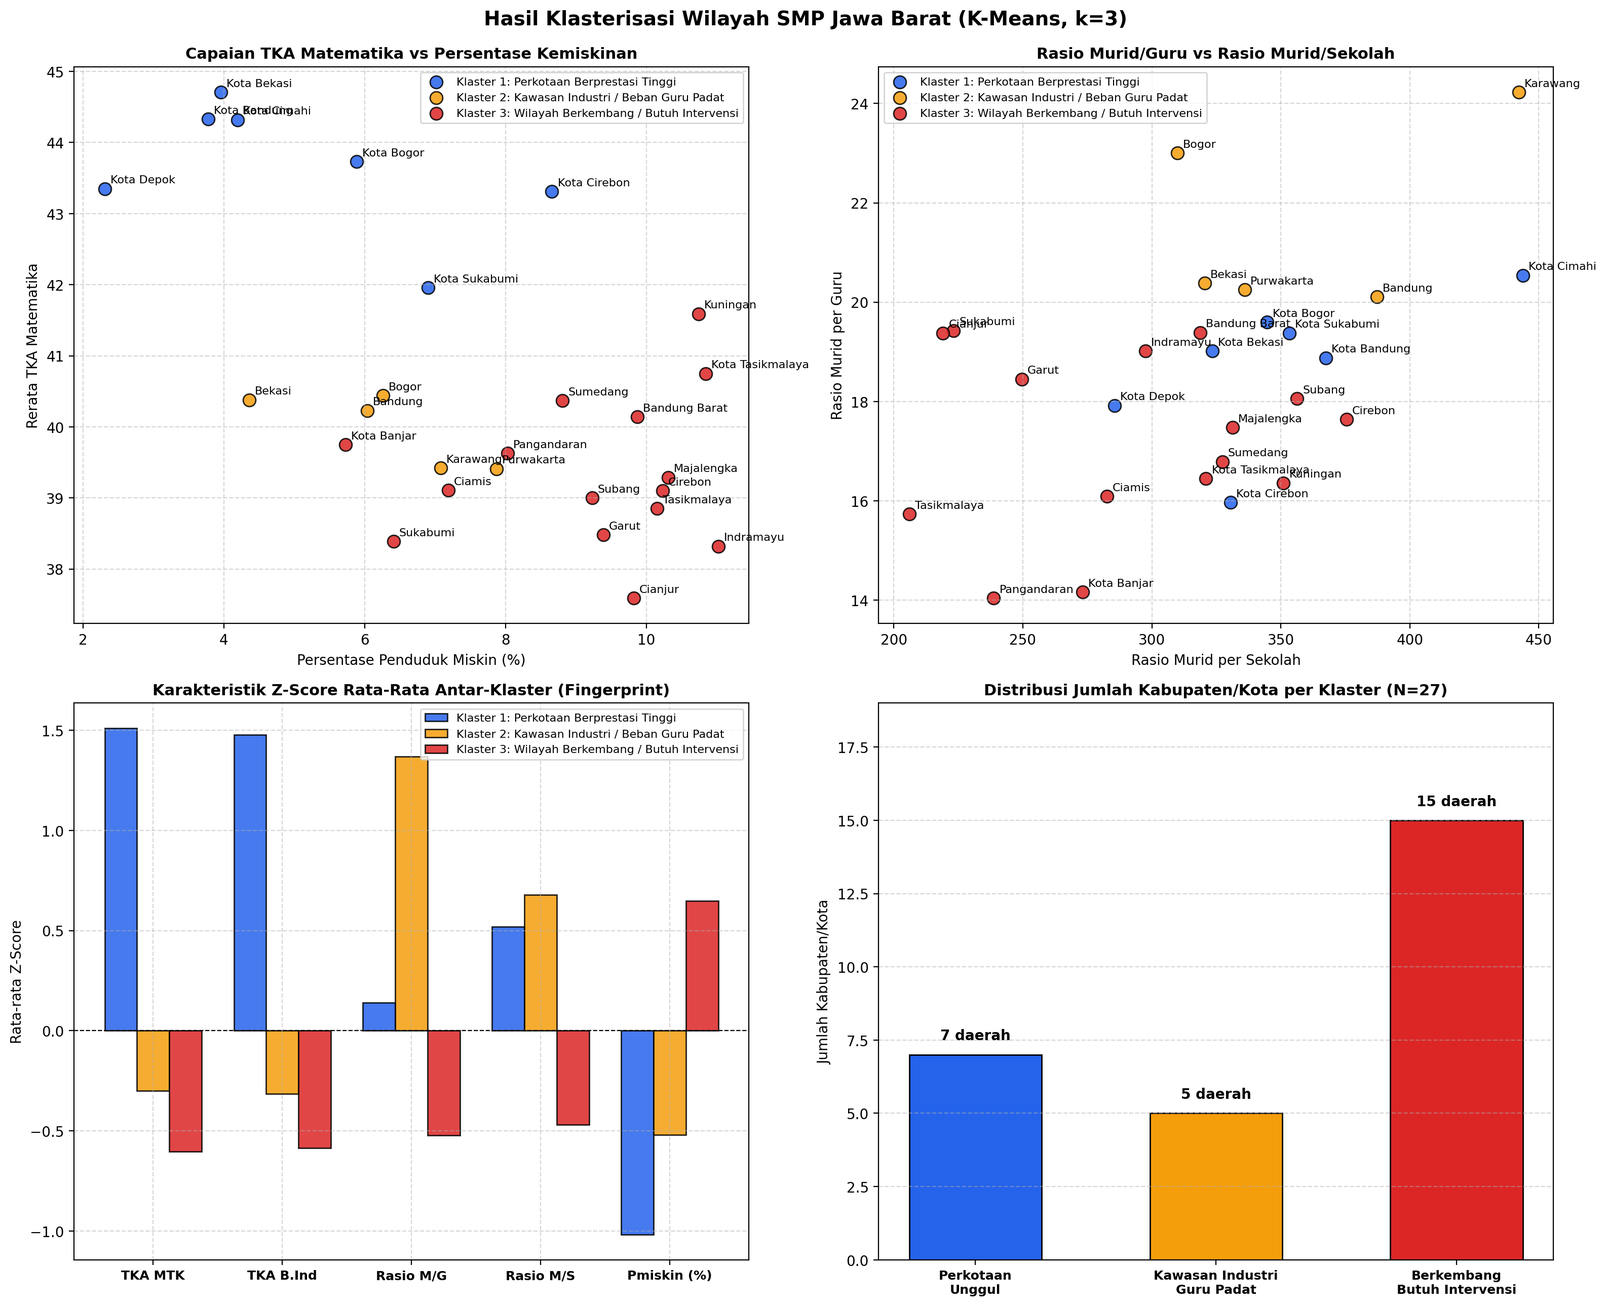
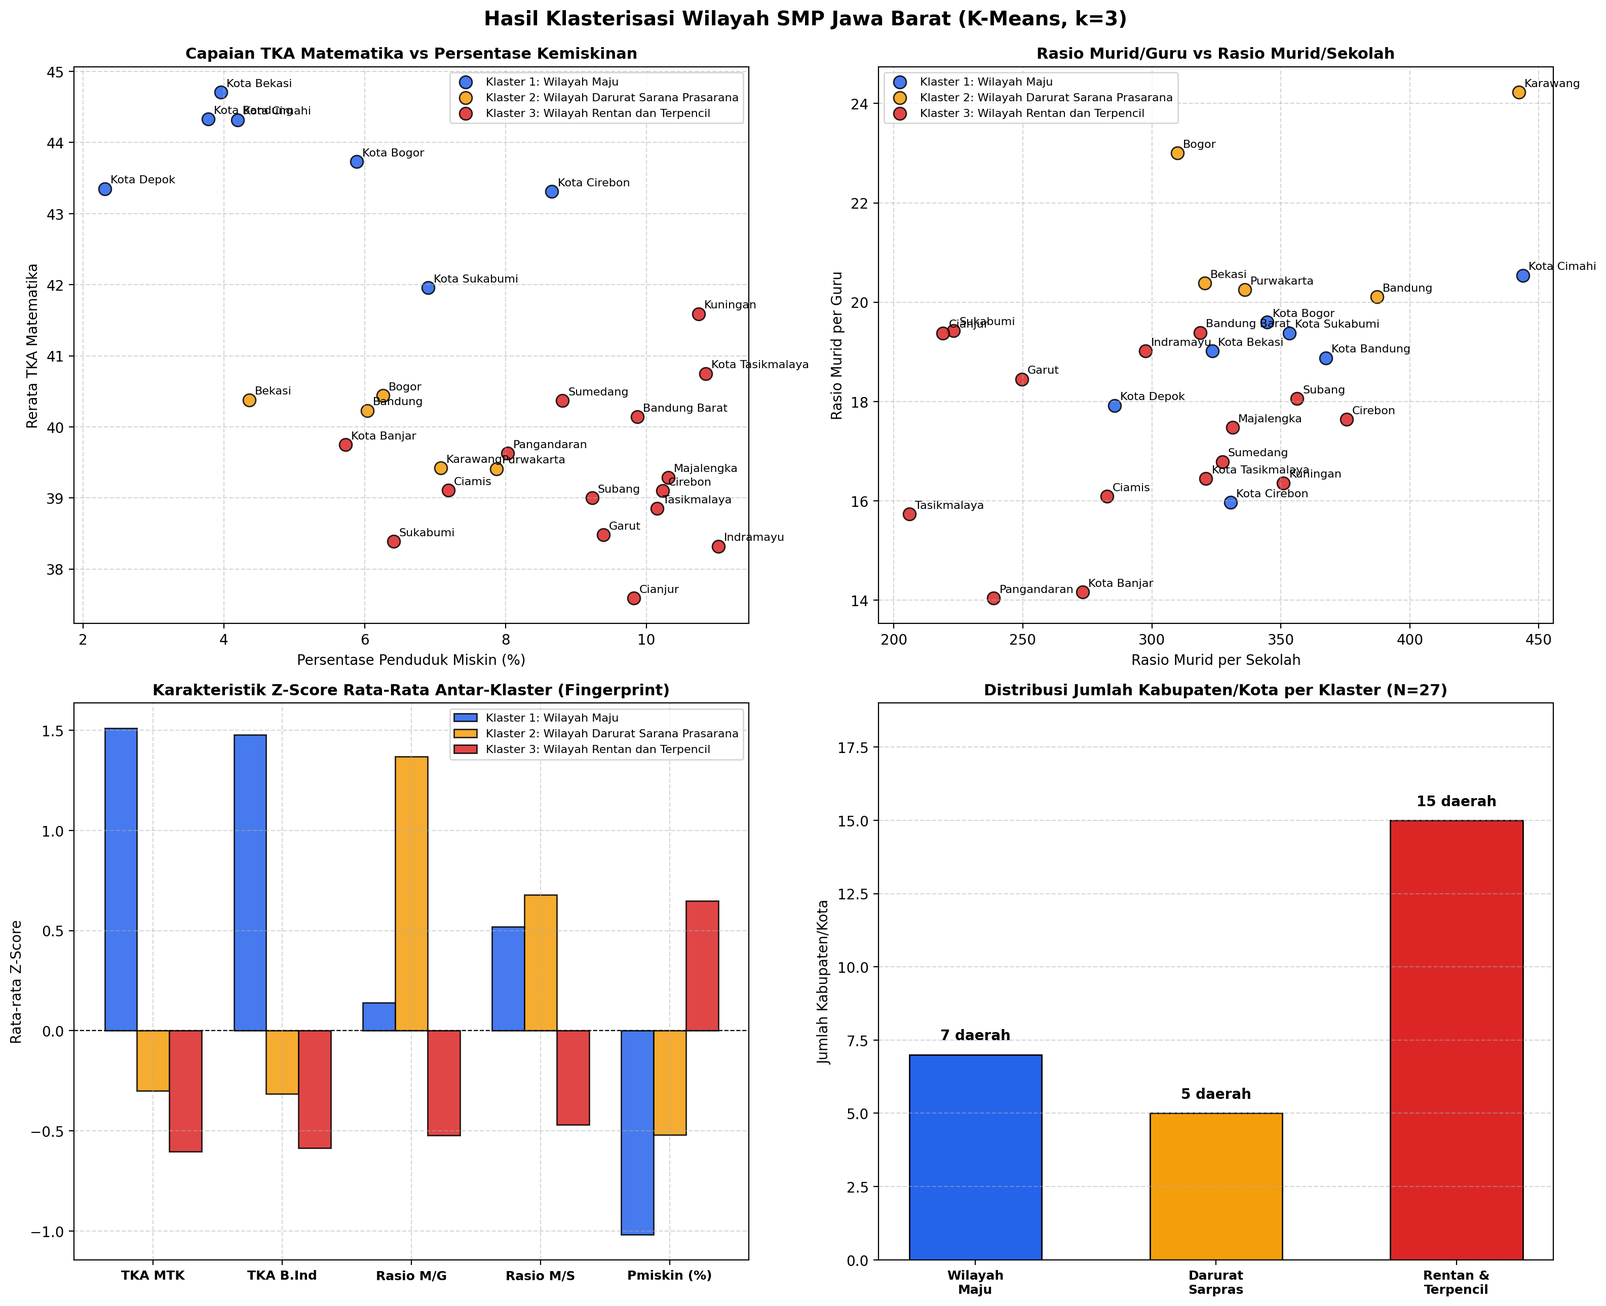
feat: add SMP region clustering project using K-Means and dataset files

diff --git a/clustering/kmeans_clustering.py b/clustering/kmeans_clustering.py
@@ -47,11 +47,11 @@ mean_stats = temp_df.groupby("temp_cluster")[fitur].mean()
 label_mapping = {}
 for c_id, row in mean_stats.iterrows():
     if row["tka_rerata_mtk"] > 42.0:
-        label_mapping[c_id] = "Klaster 1: Perkotaan Berprestasi Tinggi"
+        label_mapping[c_id] = "Klaster 1: Wilayah Maju"
     elif row["rasio_murid_guru"] > 20.0:
-        label_mapping[c_id] = "Klaster 2: Kawasan Industri / Beban Guru Padat"
+        label_mapping[c_id] = "Klaster 2: Wilayah Darurat Sarana Prasarana"
     else:
-        label_mapping[c_id] = "Klaster 3: Wilayah Berkembang / Butuh Intervensi"
+        label_mapping[c_id] = "Klaster 3: Wilayah Rentan dan Terpencil"
 
 # 5. Gabungkan Hasil Klasterisasi ke Dataset Final
 hasil_df = df_raw.copy()
@@ -85,9 +85,9 @@ for nama_klaster, grup in hasil_df.groupby("nama_klaster_k3"):
 fig, axes = plt.subplots(2, 2, figsize=(16, 13))
 
 warna_klaster = {
-    "Klaster 1: Perkotaan Berprestasi Tinggi": "#2563eb",         # Biru
-    "Klaster 2: Kawasan Industri / Beban Guru Padat": "#f59e0b",   # Amber / Oranye
-    "Klaster 3: Wilayah Berkembang / Butuh Intervensi": "#dc2626"  # Merah
+    "Klaster 1: Wilayah Maju": "#2563eb",                      # Biru (Maju/Stabil)
+    "Klaster 2: Wilayah Darurat Sarana Prasarana": "#f59e0b",   # Amber / Oranye (Peringatan Sarpras)
+    "Klaster 3: Wilayah Rentan dan Terpencil": "#dc2626"       # Merah (Prioritas Afirmasi)
 }
 
 # Subplot 1: TKA MTK vs Persentase Kemiskinan
@@ -148,7 +148,7 @@ bar_colors = [warna_klaster.get(name, "gray") for name in klaster_names]
 
 bars = ax4.bar(range(len(klaster_names)), klaster_counts, color=bar_colors, width=0.55, edgecolor="black")
 ax4.set_xticks(range(len(klaster_names)))
-short_labels = ["Perkotaan\nUnggul", "Kawasan Industri\nGuru Padat", "Berkembang\nButuh Intervensi"]
+short_labels = ["Wilayah\nMaju", "Darurat\nSarpras", "Rentan &\nTerpencil"]
 ax4.set_xticklabels(short_labels, fontsize=9, fontweight="bold")
 ax4.set_title("Distribusi Jumlah Kabupaten/Kota per Klaster (N=27)", fontsize=11, fontweight="bold")
 ax4.set_ylabel("Jumlah Kabupaten/Kota")

diff --git a/README.md b/README.md
@@ -1,0 +1,304 @@
+# Klasterisasi Wilayah Pendidikan SMP Jawa Barat Menggunakan K-Means Clustering
+> **Analisis Disparitas Mutu Capaian TKA, Kebutuhan Sarana Prasarana, dan Konteks Sosio-Ekonomi di 27 Kabupaten/Kota Jawa Barat**
+
+---
+
+## Daftar Isi
+1. [Latar Belakang & Tujuan](#1-latar-belakang--tujuan)
+2. [Alur Kerja Data Mining (Pipeline)](#2-alur-kerja-data-mining-pipeline)
+3. [Tahap 1: Pengumpulan & Sumber Data](#tahap-1-pengumpulan--sumber-data)
+4. [Tahap 2: Integrasi & Pembersihan Data](#tahap-2-integrasi--pembersihan-data)
+5. [Tahap 3: Analisis Eksploratif (EDA) & Multikolinearitas](#tahap-3-analisis-eksploratif-eda--multikolinearitas)
+6. [Tahap 4: Seleksi Fitur & Standardisasi Data](#tahap-4-seleksi-fitur--standardisasi-data)
+7. [Tahap 5: Evaluasi Penentuan Jumlah Klaster Optimal (k)](#tahap-5-evaluasi-penentuan-jumlah-klaster-optimal-k)
+8. [Tahap 6: Eksekusi K-Means Clustering & Profiling Wilayah](#tahap-6-eksekusi-k-means-clustering--profiling-wilayah)
+9. [Rekomendasi Kebijakan Berbasis Data (Policy Action)](#9-rekomendasi-kebijakan-berbasis-data-policy-action)
+10. [Struktur Direktori Proyek](#10-struktur-direktori-proyek)
+11. [Panduan Menjalankan Skrip](#11-panduan-menjalankan-skrip)
+
+---
+
+## 1. Latar Belakang & Tujuan
+
+Pemerataan kualitas pendidikan jenjang Sekolah Menengah Pertama (SMP) di Provinsi Jawa Barat menghadapi tantangan multidimensi. Disparitas mutu hasil belajar siswa tidak hanya dipengaruhi oleh faktor internal proses belajar mengajar, melainkan berkaitan erat dengan:
+1. **Daya tampung sarana fisik dan kecukupan tenaga pendidik**.
+2. **Kondisi kesejahteraan sosio-ekonomi keluarga siswa di wilayah tersebut**.
+
+Proyek data mining ini bertujuan untuk:
+* Mengidentifikasi pola disparitas pendidikan di 27 kabupaten/kota Jawa Barat secara objektif dan matematis.
+* Mengelompokkan wilayah ke dalam klaster profil yang jelas dan interpretatif (*Wilayah Maju*, *Wilayah Darurat Sarana Prasarana*, dan *Wilayah Rentan dan Terpencil*).
+* Memberikan landasan rekomendasi kebijakan (*evidence-based policy*) yang tepat sasaran bagi pemerintah daerah dan pemangku kepentingan pendidikan.
+
+---
+
+## 2. Alur Kerja Data Mining (Pipeline)
+
+Proses data mining dilakukan mengacu pada metodologi baku CRISP-DM (*Cross-Industry Standard Process for Data Mining*):
+
+```mermaid
+flowchart TD
+    A["1. Data Collection\n(TKA Pusmendik, Dapodik Kemendikbud, BPS Jabar)"] --> B["2. Data Integration & Cleaning\n(Penyelarasan Kode Wilayah & Validasi 27 Kab/Kota Jenjang SMP)"]
+    B --> C["3. Exploratory Data Analysis & Feature Selection\n(Pearson Correlation & Eliminasi Count-Bias)"]
+    C --> D["4. Data Normalization / Standardization\n(Z-Score Transformation / StandardScaler)"]
+    D --> E["5. Cluster Validation & Optimal k Evaluation\n(Elbow WCSS, Silhouette Score, Davies-Bouldin Index)"]
+    E --> F["6. K-Means Modeling & Cluster Profiling\n(Penetapan k=3 & Pemberian Label Wilayah)"]
+    F --> G["7. Policy Recommendations & Spatial Insights\n(Intervensi Afirmatif & Alokasi Anggaran Berbasis Klaster)"]
+```
+
+---
+
+## Tahap 1: Pengumpulan & Sumber Data
+
+Dataset dikumpulkan dari tiga domain data primer:
+1. **Domain Capaian Akademik**:
+   * Data nilai rerata Tes Kemampuan Akademik (TKA) jenjang SMP bidang Matematika (`tka_rerata_mtk`) dan Bahasa Indonesia (`tka_rerata_bind`) yang diperoleh dari hasil *web scraping* resmi.
+2. **Domain Infrastruktur & SDM Pendidikan (Dapodik Kemendikbud)**:
+   * Jumlah sekolah SMP (negeri dan swasta).
+   * Jumlah guru dan tenaga kependidikan (TKP).
+   * Jumlah murid terdaftar.
+3. **Domain Sosio-Ekonomi Daerah (BPS Jawa Barat)**:
+   * Persentase penduduk miskin per kabupaten/kota (`pct_penduduk_miskin`).
+   * Garis kemiskinan (Rp/kapita/bulan).
+4. **Domain Spasial**:
+   * Peta batas administrasi 27 kabupaten/kota Provinsi Jawa Barat dalam format GeoJSON.
+
+---
+
+## Tahap 2: Integrasi & Pembersihan Data
+
+* **Penyelarasan Entitas**: Penggabungan multi-sumber data dilakukan menggunakan pencocokan ganda: `kode_wilayah` (Kemendagri), `kode_bps`, dan nama kabupaten/kota resmi Jawa Barat.
+* **Filter Jenjang**: Difokuskan spesifik pada jenjang SMP di seluruh 27 kabupaten/kota (18 kabupaten dan 9 kota).
+* **Validasi Kualitas Data**: Dilakukan pengecekan *missing value* ($0$ nilai kosong ditemukan) dan penyeragaman tipe data ke format floating-point numerik.
+* **Output Tahap Ini**: Disimpan dalam file [`dataset/jabar_smp_merged.csv`](file:///dataset/jabar_smp_merged.csv) dan [`dataset/dataset_final_smp.csv`](file:///dataset/dataset_final_smp.csv).
+
+---
+
+## Tahap 3: Analisis Eksploratif (EDA) & Multikolinearitas
+
+Analisis korelasi dijalankan melalui skrip [`clustering/statistik_grafik/korelasi.py`](file:///clustering/statistik_grafik/korelasi.py) menggunakan koefisien korelasi Pearson:
+
+$$r_{xy} = \frac{\sum_{i=1}^{n} (x_i - \bar{x})(y_i - \bar{y})}{\sqrt{\sum_{i=1}^{n} (x_i - \bar{x})^2} \sqrt{\sum_{i=1}^{n} (y_i - \bar{y})^2}}$$
+
+### Alasan Pengambilan Keputusan (Eliminasi *Count-Bias*):
+1. **Masalah Variabel Agregat Mentah**:
+   * Ditemukan multikolinearitas ekstrem pada variabel jumlah absolut:
+     * `guru_total` vs `murid_total` ($r = 0.987$)
+     * `sekolah_total` vs `guru_total` ($r = 0.955$)
+     * `sekolah_total` vs `murid_total` ($r = 0.950$)
+   * *Alasan Keputusan*: Jumlah absolut sangat bias terhadap luas geografis dan jumlah penduduk kabupaten (misal Kabupaten Bogor berpenduduk 5+ juta jiwa vs Kota Cirebon berpenduduk 300 ribu jiwa). Jika dimasukkan ke klasterisasi, algoritma hanya akan mengelompokkan wilayah berdasarkan ukuran daerah (*size-bias*), bukan mutu pendidikannya.
+2. **Solusi Perhitungan Rasio**:
+   * Dihitung variabel intensif:
+     * **Rasio Murid per Guru**: $\text{Rasio M/G} = \frac{\text{murid\_total}}{\text{guru\_total}}$ (mengukur beban pengajaran guru).
+     * **Rasio Murid per Sekolah**: $\text{Rasio M/S} = \frac{\text{murid\_total}}{\text{sekolah\_total}}$ (mengukur skala dan kepadatan gedung sekolah).
+3. **Temuan Korelasi Akademik & Kemiskinan**:
+   * Korelasi `tka_rerata_bind` dan `tka_rerata_mtk` sebesar **$0.978$** (hampir sempurna).
+   * Korelasi antara skor TKA dengan `pct_penduduk_miskin` bernilai negatif kuat ($r = -0.62$ s/d $-0.65$), membuktikan bahwa kondisi ekonomi daerah berpengaruh signifikan terhadap capaian akademik siswa.
+
+---
+
+## Tahap 4: Seleksi Fitur & Standardisasi Data
+
+Dijalankan melalui skrip [`clustering/standarisasi.py`](file:///clustering/standarisasi.py).
+
+### 1. Lima Fitur Terpilih
+Dipilih 5 fitur yang mewakili 3 pilar penentu:
+* **Pilar Mutu Akademik**: `tka_rerata_mtk` dan `tka_rerata_bind`.
+* **Pilar Kapasitas SDM & Sarpras**: `rasio_murid_guru` dan `rasio_murid_sekolah`.
+* **Pilar Konteks Sosio-Ekonomi**: `pct_penduduk_miskin`.
+
+### 2. Rumus Standardisasi (Z-Score Normalization)
+Algoritma K-Means mengukur kemiripan antar-daerah menggunakan **jarak Euclidean**:
+
+$$d(p, q) = \sqrt{\sum_{j=1}^{d} (p_j - q_j)^2}$$
+
+Karena satuan masing-masing fitur sangat berbeda (rasio murid per sekolah bernilai $200 - 450$, sedangkan kemiskinan bernilai $2\% - 11\%$, dan nilai TKA berkisar $37 - 72$), fitur dengan angka ratusan akan mendominasi perhitungan jarak. Oleh karena itu, seluruh fitur ditransformasikan ke skala Z-Score:
+
+$$z = \frac{x - \mu}{\sigma}$$
+
+Di mana:
+* $\mu = \frac{1}{N}\sum_{i=1}^{N} x_i$ (Rata-rata fitur)
+* $\sigma = \sqrt{\frac{1}{N}\sum_{i=1}^{N} (x_i - \mu)^2}$ (Standar deviasi fitur)
+
+Setelah transformasi: $\mu = 0$ dan $\sigma = 1$ untuk seluruh fitur.
+* **Output**: Disimpan di [`dataset/fitur_kmeans_smp_standardisasi.csv`](file:///dataset/fitur_kmeans_smp_standardisasi.csv).
+
+---
+
+## Tahap 5: Evaluasi Penentuan Jumlah Klaster Optimal ($k$)
+
+Dijalankan melalui skrip [`clustering/evaluasi_k.py`](file:///clustering/evaluasi_k.py). Pengujian dilakukan untuk rentang $k = 2$ hingga $k = 8$.
+
+### Tiga Metrik Pengujian:
+
+#### 1. Elbow Method (Within-Cluster Sum of Squares / WCSS)
+Mengukur total variansi kuadrat jarak titik data ke pusat klasternya:
+
+$$\text{WCSS} = \sum_{k=1}^{K} \sum_{x \in C_k} ||x - \mu_k||^2$$
+
+#### 2. Silhouette Coefficient
+Mengukur seberapa dekat suatu titik dengan klasternya sendiri dibandingkan dengan klaster terdekat lainnya:
+
+$$s(i) = \frac{b(i) - a(i)}{\max(a(i), b(i))}$$
+
+Di mana $a(i)$ adalah rata-rata jarak ke sesama anggota klaster, dan $b(i)$ adalah rata-rata jarak ke anggota klaster terdekat berikutnya. Nilai berkisar antara $-1 \le s(i) \le 1$ (makin mendekati 1 makin optimal).
+
+#### 3. Davies-Bouldin Index (DBI)
+Mengukur rasio penyebaran internal klaster terhadap pemisahan antarklaster:
+
+$$DB = \frac{1}{k}\sum_{i=1}^{k} \max_{j \neq i} \left( \frac{\bar{d}_i + \bar{d}_j}{d(c_i, c_j)} \right)$$
+
+Nilai semakin kecil mendekati $0$ menunjukkan klaster yang semakin terpisah dengan baik (*well-separated*).
+
+### Tabel Hasil Evaluasi Metrik:
+| $k$ (Jumlah Klaster) | WCSS / Inertia *(Elbow)* | Silhouette Score | Davies-Bouldin Index | Calinski-Harabasz |
+| :---: | :---: | :---: | :---: | :---: |
+| **2** | 78.35 | 0.3481 | 1.1191 | 18.08 |
+| **3** | **56.26** *(Siku Penurunan)* | **0.3270** | **0.9905** *(Drop < 1.0)* | 16.80 |
+| **4** | 42.15 | 0.3155 | 1.0266 | 16.89 |
+| **5** | 34.16 | 0.3426 | 0.8911 | 16.24 |
+| **6** | 28.37 | 0.3305 | 0.8196 | 15.79 |
+
+### Alasan Keputusan Memilih $k = 3$:
+1. **Titik Siku Pertama (*Elbow Point*)**: Penurunan WCSS paling signifikan terjadi pada perpindahan dari $k=2$ ke $k=3$ (berkurang $28.2\%$).
+2. **Pemisahan Klaster Solid**: Davies-Bouldin Index turun tajam dari $1.119$ ke **$0.9905$** (di bawah 1.0 menandakan batas antarklaster yang tegas).
+3. **Paritas & Interpretasi Kebijakan**: Untuk 27 kabupaten/kota, pembagian menjadi 3 kelompok menghasilkan interpretasi kebijakan yang paling aplikatif dan seimbang tanpa risiko *over-fragmentation*.
+* **Output Grafik & Data**: [`clustering/statistik_grafik/grafik_eda/evaluasi_optimal_k.png`](file:///clustering/statistik_grafik/grafik_eda/evaluasi_optimal_k.png) dan [`evaluasi_optimal_k.csv`](file:///clustering/statistik_grafik/evaluasi_optimal_k.csv).
+
+---
+
+## Tahap 6: Eksekusi K-Means Clustering & Profiling Wilayah
+
+Dijalankan melalui skrip [`clustering/kmeans_clustering.py`](file:///clustering/kmeans_clustering.py).
+
+### Algoritma K-Means:
+1. Menentukan $k=3$ centroid awal secara acak terdistribusi (`k-means++`, `random_state=42`).
+2. Menghitung jarak Euclidean setiap kabupaten/kota ke masing-masing centroid.
+3. Menetapkan setiap wilayah ke klaster dengan jarak centroid terdekat:
+   $$C(i) = \arg\min_{j} ||x_i - \mu_j||^2$$
+4. Menghitung ulang posisi centroid sebagai rata-rata koordinat anggota barunya:
+   $$\mu_j = \frac{1}{|C_j|} \sum_{i \in C_j} x_i$$
+5. Mengulang iterasi hingga konvergensi tercapai (posisi centroid tidak lagi bergeser).
+
+---
+
+### Profil Karakteristik 3 Klaster Terbentuk
+
+Berikut adalah tabel rata-rata nilai riil (asli) tiap klaster yang disimpan pada [`clustering/statistik_grafik/profil_klaster_smp.csv`](file:///clustering/statistik_grafik/profil_klaster_smp.csv):
+
+| Fitur / Indikator | Klaster 1: Wilayah Maju | Klaster 2: Wilayah Darurat Sarpras | Klaster 3: Wilayah Rentan & Terpencil | Rerata Jabar |
+| :--- | :---: | :---: | :---: | :---: |
+| **Jumlah Wilayah** | **7 daerah** | **5 daerah** | **15 daerah** | 27 daerah |
+| **Rerata TKA Matematika** | **43.67** *(Tertinggi)* | **39.98** *(Menengah)* | **39.36** *(Terendah)* | 40.59 |
+| **Rerata TKA B. Indonesia**| **69.49** *(Tertinggi)* | **61.85** *(Menengah)* | **60.71** *(Terendah)* | 63.19 |
+| **Rasio Murid per Guru** | **18.76** *(Proporsional)* | **21.59** *(Paling Padat)* | **17.23** *(Relatif Longgar)* | 18.43 |
+| **Rasio Murid per Sekolah**| **349.79** | **359.19** *(Terbesar/Sesak)* | **291.37** *(Sekolah Kecil)* | 319.06 |
+| **% Penduduk Miskin** | **5.10%** *(Terendah)* | **6.32%** *(Moderat)* | **9.18%** *(Tertinggi)* | 7.59% |
+
+---
+
+### Penjelasan & Anggota Masing-Masing Klaster
+
+#### 1. Klaster 1: Wilayah Maju (7 Daerah)
+* **Anggota**: *Kota Bandung, Kota Cimahi, Kota Bekasi, Kota Bogor, Kota Depok, Kota Sukabumi, Kota Cirebon*.
+* **Karakteristik**:
+  * Didominasi oleh pusat-pusat kota metropolitan.
+  * Capaian prestasi TKA Matematika dan Bahasa Indonesia tertinggi di Jawa Barat.
+  * Daya dukung ekonomi sangat kuat dengan persentase penduduk miskin paling rendah di Jawa Barat (Depok hanya 2.31%, Bandung 3.78%, Bekasi 3.96%).
+  * Rasio murid-guru dan infrastruktur sekolah berada pada standar pelayanan minimal yang sangat mapan.
+
+#### 2. Klaster 2: Wilayah Darurat Sarana Prasarana (5 Daerah)
+* **Anggota**: *Kabupaten Bogor, Kabupaten Bandung, Kabupaten Purwakarta, Kabupaten Karawang, Kabupaten Bekasi*.
+* **Karakteristik**:
+  * Wilayah dengan jumlah populasi siswa sangat besar (koridor penyangga industri).
+  * **Krisis Guru Terberat**: Memiliki rasio murid per guru tertinggi di Jawa Barat (**21.59**, Karawang bahkan mencapai **24.23** dan Bogor **23.00**; jauh melampaui batas SPM ideal Kemendikbud 1:15 s/d 1:18).
+  * **Sekolah Mengalami Overcapacity**: Rasio murid per sekolah mencapai rata-rata **359.19 murid per sekolah** (Karawang mencapai **442.23**). Ruang kelas sangat padat dan ketersediaan sekolah tidak mampu mengimbangi membludaknya jumlah usia sekolah.
+
+#### 3. Klaster 3: Wilayah Rentan dan Terpencil (15 Daerah)
+* **Anggota**: *Kabupaten Sukabumi, Cianjur, Garut, Tasikmalaya, Ciamis, Kuningan, Cirebon, Majalengka, Sumedang, Indramayu, Subang, Bandung Barat, Pangandaran, Kota Tasikmalaya, Kota Banjar*.
+* **Karakteristik**:
+  * **Tantangan Kemiskinan**: Memiliki tingkat kemiskinan tertinggi di Jawa Barat (rata-rata **9.18%**, di mana Indramayu mencapai **11.02%**, Kuningan **10.74%**, dan Tasikmalaya **10.15%**).
+  * **Tantangan Dispersi Geografis / Sekolah Terpencil**: Rasio murid per sekolah kecil (rata-rata hanya 291 murid, bahkan di Tasikmalaya 205, Cianjur 219, Sukabumi 223, Pangandaran 238). Ini menandakan banyaknya sekolah-sekolah kecil yang tersebar di wilayah geografis pegunungan dan pesisir (wilayah Jabar Selatan dan pedalaman) dengan tantangan aksesibilitas.
+  * **Kesenjangan Capaian**: Rerata nilai TKA terendah di Jawa Barat.
+
+---
+
+## 9. Rekomendasi Kebijakan Berbasis Data (Policy Action)
+
+Hasil klasterisasi memberikan panduan intervensi yang berbeda untuk masing-masing kelompok wilayah:
+
+```
++----------------------------------------------------------------------------------------------------+
+|                                REKOMENDASI KEBIJAKAN PENDIDIKAN JABAR                              |
++----------------------------------------------------------------------------------------------------+
+|                                                                                                    |
+|  [ KLASTER 1: WILAYAH MAJU ]                                                                       |
+|  - Peran sebagai "Sister School" & Pusat Inkubasi Inovasi Belajar bagi daerah lain.                |
+|  - Penguatan kurikulum olimpiade sains/teknologi dan digital learning tingkat lanjut.              |
+|                                                                                                    |
+|  [ KLASTER 2: WILAYAH DARURAT SARANA PRASARANA ]                                                   |
+|  - Formasi Prioritas Pengangkatan Guru Baru (PPPK/PNS) untuk menurunkan rasio murid/guru ke <18.   |
+|  - Pembangunan Ruang Kelas Baru (RKB) dan Unit Sekolah Baru (USB) untuk mengurai kepadatan sekolah.|
+|  - Kemitraan CSR kawasan industri lokal untuk renovasi dan pembangunan fasilitas sekolah.          |
+|                                                                                                    |
+|  [ KLASTER 3: WILAYAH RENTAN DAN TERPENCIL ]                                                       |
+|  - Bantuan Operasional Sekolah (BOS) Afirmatif Khusus untuk daerah kemiskinan tinggi.             |
+|  - Subsidi transportasi sekolah / asrama perintisan untuk mengatasi hambatan geografis pelosok.   |
+|  - Program akselerasi numerasi & literasi dasar bagi pendidik di kawasan pedesaan & pesisir.      |
++----------------------------------------------------------------------------------------------------+
+```
+
+---
+
+## 10. Struktur Direktori Proyek
+
+```text
+klasterisasi-wilayah-tka/
+├── README.md                                    # Dokumentasi komprehensif data mining
+├── clustering/
+│   ├── standarisasi.py                          # Skrip Z-score normalization
+│   ├── evaluasi_k.py                            # Skrip evaluasi k (Elbow, Silhouette, DBI)
+│   ├── kmeans_clustering.py                     # Skrip pemodelan K-Means & pembuatan visualisasi
+│   └── statistik_grafik/
+│       ├── korelasi.py                          # Skrip evaluasi matriks korelasi Pearson
+│       ├── statistik.py                         # Skrip statistik deskriptif & histogram
+│       ├── matriks_korelasi.csv                 # Tabel koefisien korelasi antarvariabel
+│       ├── pasangan_korelasi_tinggi.csv         # Daftar variabel dengan r >= 0.85
+│       ├── evaluasi_optimal_k.csv               # Tabel metrik Elbow, Silhouette, DBI (k=2 s/d 8)
+│       ├── profil_klaster_smp.csv               # Tabel rata-rata nilai asli tiap klaster
+│       └── grafik_eda/
+│           ├── matriks_korelasi.png             # Heatmap korelasi
+│           ├── evaluasi_optimal_k.png           # Grafik evaluasi Elbow, Silhouette, DBI
+│           └── visualisasi_klaster_kmeans.png   # 4-panel grafik hasil klasterisasi K-Means
+└── dataset/
+    ├── jabar_smp_merged.csv                     # Dataset hasil integrasi seluruh variabel
+    ├── fitur_kandidat_kmeans_smp.csv            # Dataset kandidat fitur sebelum standardisasi
+    ├── fitur_kmeans_smp_standardisasi.csv       # Dataset fitur hasil standardisasi Z-Score
+    ├── hasil_klaster_kmeans_smp.csv             # Dataset final berlabel klaster k=3 dan k=4
+    ├── kabkota_jabar_keyed.geojson              # Poligon spasial 27 kab/kota Jawa Barat
+    ├── qc_dan_data_dictionary_smp.xlsx          # Data dictionary & quality control
+    ├── TKA/                                     # Data mentah scraping TKA SMP/MTs
+    ├── infrastruktur & sdm/                     # Data Dapodik guru, murid, sekolah
+    └── sosio ekonomi/                           # Data BPS kemiskinan kab/kota
+```
+
+---
+
+## 11. Panduan Menjalankan Skrip
+
+Pastikan Python (versi $\ge 3.10$) dan pustaka pendukung telah terpasang:
+```bash
+pip install pandas numpy scikit-learn matplotlib
+```
+
+Jalankan tahapan secara berurutan:
+```bash
+# 1. Melakukan standardisasi fitur dengan Z-Score:
+python clustering/standarisasi.py
+
+# 2. Menghitung metrik evaluasi penentuan nilai k optimal:
+python clustering/evaluasi_k.py
+
+# 3. Menjalankan klasterisasi K-Means, profiling, dan visualisasi 4 panel:
+python clustering/kmeans_clustering.py
+```
+Seluruh artefak hasil analisis akan diperbarui secara otomatis pada folder `dataset/` dan `clustering/statistik_grafik/`.
